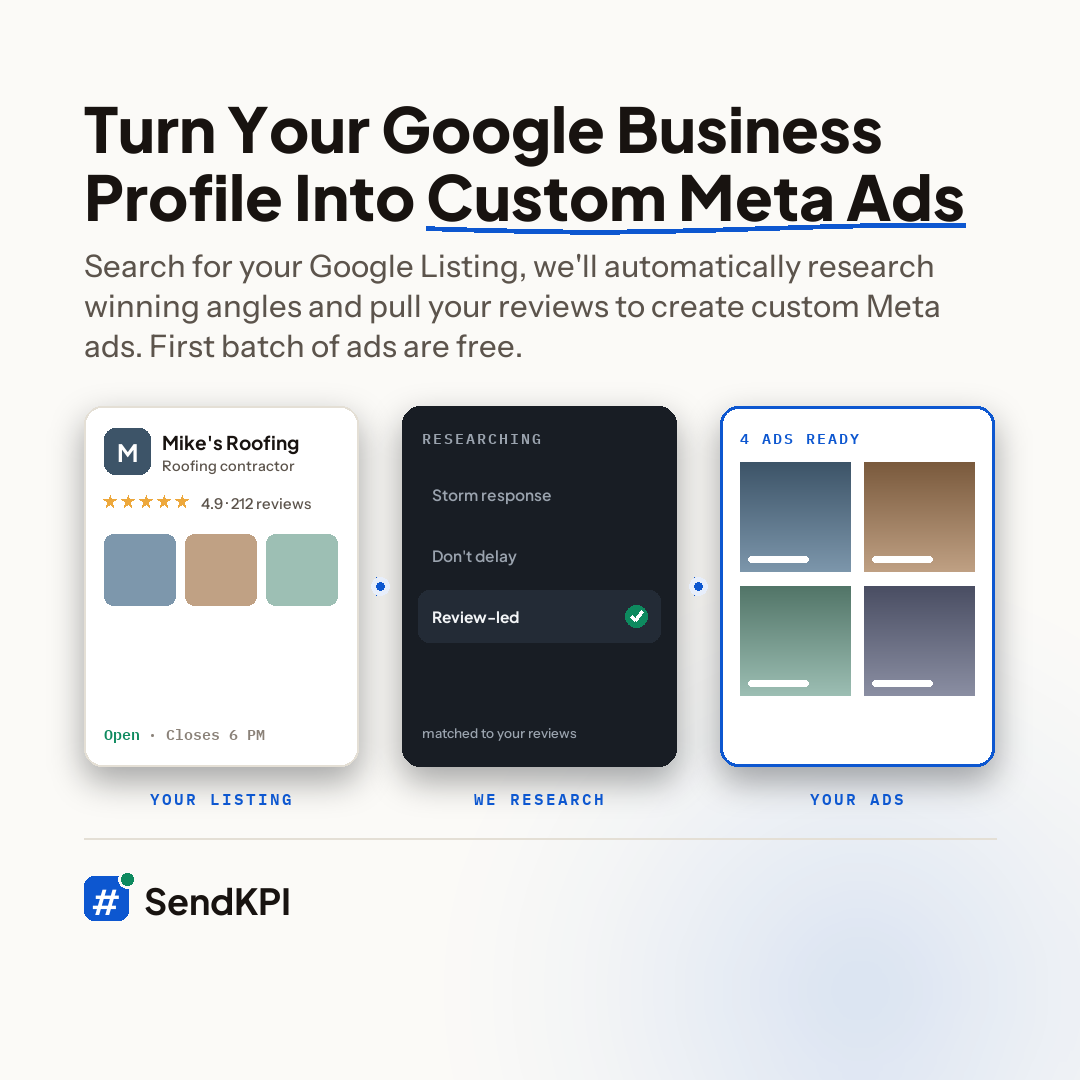
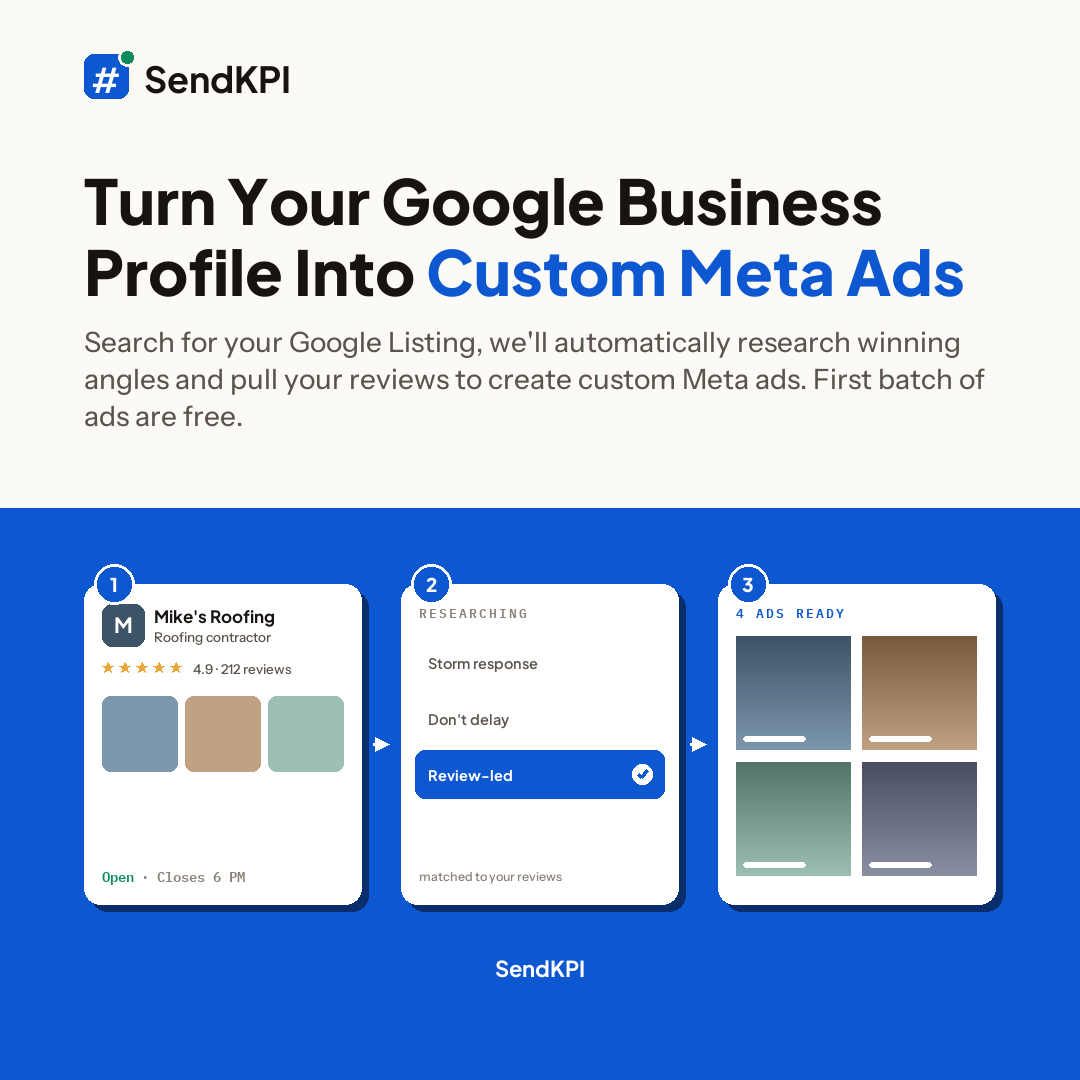
Rebuild social post 4 as a flat, blur-free modern SaaS design
The blurred shadow/glow in the previous version rendered grainy at PNG
export. Replaced with a genuinely flat treatment: a full-bleed solid
blue panel, crisp white cards with hard offset 'sticker' shadows (no
Gaussian blur anywhere), numbered step badges instead of labels, and a
colored accent phrase in the headline instead of a hand-drawn underline.
Verified the panel is a single exact color with zero pixel noise.

diff --git a/scripts/build_social_post_04.py b/scripts/build_social_post_04.py
@@ -1,216 +1,173 @@
-"""Organic Facebook/Instagram post #4: the whole product in one picture --
-Google listing in, a research step in the middle, four Meta ads out.
+"""Organic Facebook/Instagram post #4: modern flat SaaS-social treatment --
+a color-blocked panel, crisp solid "sticker" shadows, numbered steps. No
+blur anywhere (the previous Gaussian-blurred shadow/glow read as grainy at
+PNG export) -- every edge here is hard and flat by design.
 
 Run from the repo root (needs Pillow and the brand TTFs):
     SENDKPI_FONT_DIR=/path/to/fonts python3 scripts/build_social_post_04.py
 """
 from __future__ import annotations
 
-import math
 import pathlib
 import sys
 
 sys.path.insert(0, str(pathlib.Path(__file__).resolve().parent))
 from build_sendkpi_campaign_ads import (  # noqa: E402
-    BIZ, BLUE, BLUE_SOFT, CARD, DARK, DARK_INK, DARK_MUTED, GREEN, INK,
-    INK2, INK3, LINE, M, PAPER, S, instrument, jakarta, logo, mono, spaced,
-    stars, wrap,
+    BIZ, BLUE, GREEN, INK, INK2, INK3, M, PAPER, S, instrument, jakarta,
+    logo, mono, spaced, stars, wrap,
 )
-from PIL import Image, ImageDraw, ImageFilter  # noqa: E402
+from PIL import Image, ImageDraw  # noqa: E402
 
 REPO = pathlib.Path(__file__).resolve().parent.parent
 OUT_DIR = REPO / "marketing" / "social"
 
+WHITE = "#FFFFFF"
+BLUE_DEEP = "#0A2D6B"  # flat sticker-shadow offset colour (deeper than brand blue, no blur)
 
-def soft_shadow(im: Image.Image, box: tuple[int, int, int, int], radius: int = 18, blur: int = 16, dy: int = 14, opacity: int = 95) -> None:
-    """Homepage cards all sit on a soft drop shadow (--shadow-lg); fake the
-    same thing here with a blurred rounded-rect layer pasted behind the card
-    before it's drawn."""
+
+def flat_shadow(d: ImageDraw.ImageDraw, box: tuple[int, int, int, int], radius: int = 16, offset: tuple[int, int] = (7, 7), color: str = BLUE_DEEP) -> None:
+    """A crisp, un-blurred offset rectangle behind a card -- the flat
+    'sticker shadow' look common to current SaaS marketing sites."""
     x0, y0, x1, y1 = box
-    pad = blur * 3
-    layer = Image.new("RGBA", (x1 - x0 + pad * 2, y1 - y0 + pad * 2), (0, 0, 0, 0))
-    ld = ImageDraw.Draw(layer)
-    ld.rounded_rectangle([pad, pad, pad + (x1 - x0), pad + (y1 - y0)], radius=radius, fill=(20, 24, 30, opacity))
-    layer = layer.filter(ImageFilter.GaussianBlur(blur))
-    im.paste(layer, (x0 - pad, y0 - pad + dy), layer)
+    d.rounded_rectangle([x0 + offset[0], y0 + offset[1], x1 + offset[0], y1 + offset[1]], radius=radius, fill=color)
 
 
-def radial_glow(im: Image.Image, center: tuple[int, int], r: int, color: tuple[int, int, int], peak_alpha: int = 70) -> None:
-    """The homepage's cta-card and hero both sit on a soft radial blue glow.
-    Approximate one with concentric rings faded out, then blur."""
-    layer = Image.new("RGBA", im.size, (0, 0, 0, 0))
-    ld = ImageDraw.Draw(layer)
-    steps = 40
-    for i in range(steps, 0, -1):
-        t = i / steps
-        rr = int(r * t)
-        a = int(peak_alpha * (1 - t) ** 1.6)
-        ld.ellipse([center[0] - rr, center[1] - rr, center[0] + rr, center[1] + rr], fill=(*color, a))
-    layer = layer.filter(ImageFilter.GaussianBlur(30))
-    im.paste(layer, (0, 0), layer)
+def step_badge(d: ImageDraw.ImageDraw, cx: int, cy: int, n: int, bg: str = BLUE, fg: str = WHITE) -> None:
+    r = 20
+    d.ellipse([cx - r, cy - r, cx + r, cy + r], fill=bg, outline=WHITE, width=3)
+    f = jakarta(19, 800)
+    tw = d.textlength(str(n), font=f)
+    d.text((cx - tw / 2, cy - 12), str(n), font=f, fill=fg)
 
 
-def wavy_underline(d: ImageDraw.ImageDraw, x: int, y: int, w: int, color: str = BLUE, amp: float = 3.5, width: int = 5) -> None:
-    """The homepage's signature hand-drawn underline under the highlighted
-    hero phrase, redrawn as a sampled sine curve."""
-    pts = []
-    n = max(16, int(w) // 8)
-    for i in range(n + 1):
-        t = i / n
-        px = x + w * t
-        py = y + amp * math.sin(t * math.pi * 1.6) - amp * 0.4
-        pts.append((px, py))
-    d.line(pts, fill=color, width=width, joint="curve")
-
-
-def flow_dot(d: ImageDraw.ImageDraw, cx: int, cy: int, color: str = BLUE, ring: str = BLUE_SOFT) -> None:
-    """The soft pulsing dot riding the hero's dashed route line, as a static
-    two-layer glow + core dot."""
-    d.ellipse([cx - 9, cy - 9, cx + 9, cy + 9], fill=ring)
-    d.ellipse([cx - 4, cy - 4, cx + 4, cy + 4], fill=color)
-
-
-def dashed_arrow(d: ImageDraw.ImageDraw, x0: int, x1: int, y: int, color: str = BLUE, dash: int = 8, gap: int = 7, width: int = 4) -> None:
-    xx = x0
-    while xx < x1 - 12:
-        d.line([xx, y, min(xx + dash, x1 - 12), y], fill=color, width=width)
-        xx += dash + gap
-    d.polygon([(x1 - 12, y - 9), (x1, y), (x1 - 12, y + 9)], fill=color)
-    flow_dot(d, (x0 + x1) // 2, y, color=color)
-
-
-def stage_label(d: ImageDraw.ImageDraw, cx: int, y: int, text: str, color: str) -> None:
-    f = mono(16)
-    tracking = 2
-    w = sum(d.textlength(ch, font=f) for ch in text) + tracking * (len(text) - 1)
-    spaced(d, (int(cx - w / 2), y), text, f, color, tracking=tracking)
+def solid_arrow(d: ImageDraw.ImageDraw, x0: int, x1: int, y: int, color: str = WHITE) -> None:
+    d.line([x0, y, x1 - 14, y], fill=color, width=3)
+    d.polygon([(x1 - 14, y - 7), (x1, y), (x1 - 14, y + 7)], fill=color)
 
 
 def compose() -> Image.Image:
     im = Image.new("RGB", (S, S), PAPER)
-
-    # Ambient warmth behind the sign-off, echoing the hero/cta-card's soft
-    # radial blue glow rather than a flat empty corner.
-    radial_glow(im, (S - 220, S - 90), 460, (13, 87, 208), peak_alpha=40)
-
     d = ImageDraw.Draw(im)
 
-    # No logo/tag row up top on this version -- headline starts straight
-    # from the top margin so it (and everything below it) can run bigger.
+    # ---- header (cream) ----
+    logo(d, M, 54, ring=PAPER)
+
     headline = "Turn Your Google Business Profile Into Custom Meta Ads"
-    accent_phrase = "Custom Meta Ads"
-    h_size = 72
-    while h_size > 44:
+    accent = "Custom Meta Ads"
+    h_size = 64
+    while h_size > 42:
         h_font = jakarta(h_size, 800)
         h_lines = wrap(d, headline, h_font, S - 2 * M)
         if len(h_lines) <= 2:
             break
         h_size -= 2
-    y = 88
-    h_lh = round(h_size * 1.1)
-    accent_box = None
+    y = 160
+    h_lh = round(h_size * 1.14)
     for ln in h_lines:
-        d.text((M, y), ln, font=h_font, fill=INK)
-        if ln.endswith(accent_phrase):
-            prefix = ln[: -len(accent_phrase)]
-            ax = M + d.textlength(prefix, font=h_font)
-            aw = d.textlength(accent_phrase, font=h_font)
-            _, _, _, line_bottom = d.textbbox((M, y), ln, font=h_font)
-            accent_box = (ax, line_bottom + 8, aw)
+        if ln.endswith(accent):
+            prefix = ln[: -len(accent)]
+            d.text((M, y), prefix, font=h_font, fill=INK)
+            px = M + d.textlength(prefix, font=h_font)
+            d.text((px, y), accent, font=h_font, fill=BLUE)
+        else:
+            d.text((M, y), ln, font=h_font, fill=INK)
         y += h_lh
-    if accent_box:
-        ax, ay, aw = accent_box
-        wavy_underline(d, ax, ay, aw)
     y += 22
-    s_font = instrument(31)
+    s_font = instrument(28)
     for ln in wrap(d, "Search for your Google Listing, we'll automatically research winning angles and pull your reviews to create custom Meta ads. First batch of ads are free.", s_font, S - 2 * M):
         d.text((M, y), ln, font=s_font, fill=INK2)
-        y += 40
-    y += 40
+        y += 37
+
+    # ---- panel: full-bleed flat blue section, square-cut top edge dropped
+    # straight down from the copy above (a hallmark of current SaaS social
+    # posts -- one hard color block, no gradient, no blur) ----
+    panel_top = 508
+    d.rectangle([0, panel_top, S, S], fill=BLUE)
 
     biz = BIZ["roofing"]
-    top = y
-    card_h = 360
-    gap = 44
+    gap = 40
     cw = (S - 2 * M - 2 * gap) // 3
+    top = panel_top + 76
+    card_h = 320
 
     x1 = M
     x2 = x1 + cw + gap
     x3 = x2 + cw + gap
 
-    for bx in (x1, x2, x3):
-        soft_shadow(im, (bx, top, bx + cw, top + card_h))
-    d = ImageDraw.Draw(im)  # redraw handle -- soft_shadow pastes onto im directly
-
-    # ---- stage 1: the listing ----
-    d.rounded_rectangle([x1, top, x1 + cw, top + card_h], radius=18, fill=CARD, outline=LINE, width=2)
-    d.rounded_rectangle([x1 + 20, top + 22, x1 + 66, top + 68], radius=11, fill=biz["tile"])
-    af = jakarta(24, 700)
+    # ---- card 1: the listing ----
+    flat_shadow(d, (x1, top, x1 + cw, top + card_h))
+    d.rounded_rectangle([x1, top, x1 + cw, top + card_h], radius=16, fill=WHITE)
+    d.rounded_rectangle([x1 + 18, top + 20, x1 + 60, top + 62], radius=10, fill=biz["tile"])
+    af = jakarta(21, 700)
     aw = d.textlength(biz["initial"], font=af)
-    d.text((x1 + 43 - aw / 2, top + 31), biz["initial"], font=af, fill="#fff")
-    d.text((x1 + 78, top + 24), biz["name"], font=jakarta(19, 700), fill=INK)
-    d.text((x1 + 78, top + 50), biz["cat"].split(" · ")[0], font=instrument(14.5, 500), fill=INK2)
-    sx = stars(d, x1 + 20, top + 90, size=13)
-    d.text((sx + 7, top + 88), biz["rating"], font=instrument(15, 500), fill=INK2)
-    py = top + 128
+    d.text((x1 + 39 - aw / 2, top + 27), biz["initial"], font=af, fill=WHITE)
+    d.text((x1 + 70, top + 21), biz["name"], font=jakarta(17, 700), fill=INK)
+    d.text((x1 + 70, top + 44), biz["cat"].split(" · ")[0], font=instrument(13.5, 500), fill=INK2)
+    sx = stars(d, x1 + 18, top + 78, size=12)
+    d.text((sx + 6, top + 76), biz["rating"], font=instrument(13.5, 500), fill=INK2)
+    py = top + 112
+    pw = (cw - 36 - 2 * 8) // 3
     for i, g in enumerate(["#7D97AC", "#C0A184", "#9DBFB4"]):
-        pw = (cw - 40 - 2 * 10) // 3
-        px = x1 + 20 + i * (pw + 10)
-        d.rounded_rectangle([px, py, px + pw, py + pw], radius=9, fill=g)
-    d.text((x1 + 20, top + card_h - 42), "Open", font=mono(15), fill=GREEN)
-    ow = d.textlength("Open", font=mono(15))
-    d.text((x1 + 20 + ow + 8, top + card_h - 42), "· Closes 6 PM", font=mono(15), fill=INK3)
-    stage_label(d, x1 + cw // 2, top + card_h + 22, "YOUR LISTING", BLUE)
+        px = x1 + 18 + i * (pw + 8)
+        d.rounded_rectangle([px, py, px + pw, py + pw], radius=8, fill=g)
+    d.text((x1 + 18, top + card_h - 36), "Open", font=mono(13.5), fill=GREEN)
+    ow = d.textlength("Open", font=mono(13.5))
+    d.text((x1 + 18 + ow + 7, top + card_h - 36), "· Closes 6 PM", font=mono(13.5), fill=INK3)
+    step_badge(d, x1 + 30, top, 1)
 
-    # ---- arrow 1 ----
-    dashed_arrow(d, x1 + cw + 14, x2 - 14, top + card_h // 2)
+    solid_arrow(d, x1 + cw + 12, x2 - 12, top + card_h // 2)
 
-    # ---- stage 2: the research (dark, mid-thought) ----
-    d.rounded_rectangle([x2, top, x2 + cw, top + card_h], radius=18, fill=DARK)
-    spaced(d, (x2 + 20, top + 22), "RESEARCHING", mono(15), DARK_MUTED, tracking=2)
+    # ---- card 2: the research (angle candidates, flat white) ----
+    flat_shadow(d, (x2, top, x2 + cw, top + card_h))
+    d.rounded_rectangle([x2, top, x2 + cw, top + card_h], radius=16, fill=WHITE)
+    spaced(d, (x2 + 18, top + 20), "RESEARCHING", mono(13), INK3, tracking=2)
     rows = [("Storm response", False), ("Don't delay", False), ("Review-led", True)]
-    ry = top + 62
+    ry = top + 54
     for label, chosen in rows:
-        rh = 52
+        rh = 48
         if chosen:
-            d.rounded_rectangle([x2 + 16, ry, x2 + cw - 16, ry + rh], radius=11, fill="#232B36")
-        lf = jakarta(15.5, 700 if chosen else 600)
-        col = DARK_INK if chosen else DARK_MUTED
-        d.text((x2 + 30, ry + rh / 2 - 10), label, font=lf, fill=col)
+            d.rounded_rectangle([x2 + 14, ry, x2 + cw - 14, ry + rh], radius=10, fill=BLUE)
+        lf = jakarta(14.5, 700 if chosen else 600)
+        col = WHITE if chosen else INK2
+        d.text((x2 + 27, ry + rh / 2 - 9), label, font=lf, fill=col)
         if chosen:
-            cx, cy = x2 + cw - 40, ry + rh / 2
-            d.ellipse([cx - 11, cy - 11, cx + 11, cy + 11], fill=GREEN)
-            d.line([cx - 5, cy, cx - 1, cy + 4], fill="#fff", width=3)
-            d.line([cx - 1, cy + 4, cx + 6, cy - 5], fill="#fff", width=3)
-        ry += rh + 9
-    d.text((x2 + 20, top + card_h - 42), "matched to your reviews", font=instrument(13.5, 500), fill=DARK_MUTED)
-    stage_label(d, x2 + cw // 2, top + card_h + 22, "WE RESEARCH", BLUE)
+            cx, cy = x2 + cw - 36, ry + rh / 2
+            d.ellipse([cx - 10, cy - 10, cx + 10, cy + 10], fill=WHITE)
+            d.line([cx - 4, cy, cx - 1, cy + 3], fill=BLUE, width=3)
+            d.line([cx - 1, cy + 3, cx + 5, cy - 4], fill=BLUE, width=3)
+        ry += rh + 8
+    d.text((x2 + 18, top + card_h - 36), "matched to your reviews", font=instrument(12.5, 500), fill=INK3)
+    step_badge(d, x2 + 30, top, 2)
 
-    # ---- arrow 2 ----
-    dashed_arrow(d, x2 + cw + 14, x3 - 14, top + card_h // 2)
+    solid_arrow(d, x2 + cw + 12, x3 - 12, top + card_h // 2)
 
-    # ---- stage 3: the ads ----
-    d.rounded_rectangle([x3, top, x3 + cw, top + card_h], radius=18, fill=CARD, outline=BLUE, width=3)
-    spaced(d, (x3 + 20, top + 22), "4 ADS READY", mono(15), BLUE, tracking=2)
-    grid_top = top + 56
-    gs = (cw - 40 - 14) // 2
+    # ---- card 3: the ads ----
+    flat_shadow(d, (x3, top, x3 + cw, top + card_h))
+    d.rounded_rectangle([x3, top, x3 + cw, top + card_h], radius=16, fill=WHITE)
+    spaced(d, (x3 + 18, top + 20), "4 ADS READY", mono(13), BLUE, tracking=2)
+    grid_top = top + 52
+    gs = (cw - 36 - 12) // 2
     grads = [("#3D5468", "#7D97AC"), ("#7A5A3D", "#C0A184"), ("#527568", "#9DBFB4"), ("#4A4E63", "#8B8FA3")]
     for i, (c1, c2) in enumerate(grads):
-        gx = x3 + 20 + (i % 2) * (gs + 14)
-        gy = grid_top + (i // 2) * (gs + 14)
+        gx = x3 + 18 + (i % 2) * (gs + 12)
+        gy = grid_top + (i // 2) * (gs + 12)
         for row in range(gs):
             t = row / gs
             col = tuple(int(int(c1[j:j+2], 16) * (1 - t) + int(c2[j:j+2], 16) * t) for j in (1, 3, 5))
             d.line([gx, gy + row, gx + gs, gy + row], fill=col)
         bar_w = int(gs * 0.55)
-        d.rounded_rectangle([gx + 8, gy + gs - 16, gx + 8 + bar_w, gy + gs - 10], radius=3, fill="#ffffffE0")
-    stage_label(d, x3 + cw // 2, top + card_h + 22, "YOUR ADS", BLUE)
+        d.rounded_rectangle([gx + 7, gy + gs - 14, gx + 7 + bar_w, gy + gs - 9], radius=3, fill="#ffffffE0")
+    step_badge(d, x3 + 30, top, 3)
 
-    # A thin top-border rule, same treatment as the homepage's own footer,
-    # gives the sign-off real structure instead of leaving a blank gap.
-    rule_y = top + card_h + 22 + 50
-    d.line([M, rule_y, S - M, rule_y], fill=LINE, width=2)
-    logo(d, M, rule_y + 38, ring=PAPER)
+    # ---- sign-off, centered under the row, flat and quiet -- the logo tile
+    # is brand-blue so it disappears on this panel; the wordmark alone in
+    # white reads cleanly instead ----
+    foot_y = top + card_h + 50
+    wm_f = jakarta(22, 700)
+    wm = "SendKPI"
+    wm_w = d.textlength(wm, font=wm_f)
+    d.text(((S - wm_w) / 2, foot_y), wm, font=wm_f, fill=WHITE)
+
     return im
 
 
